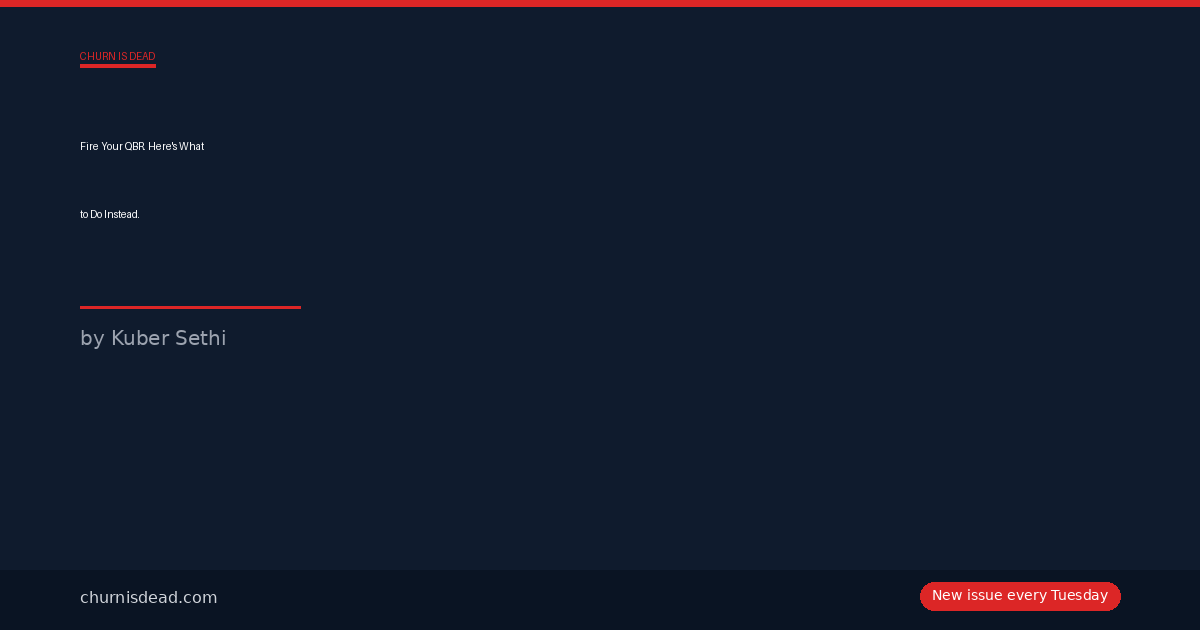
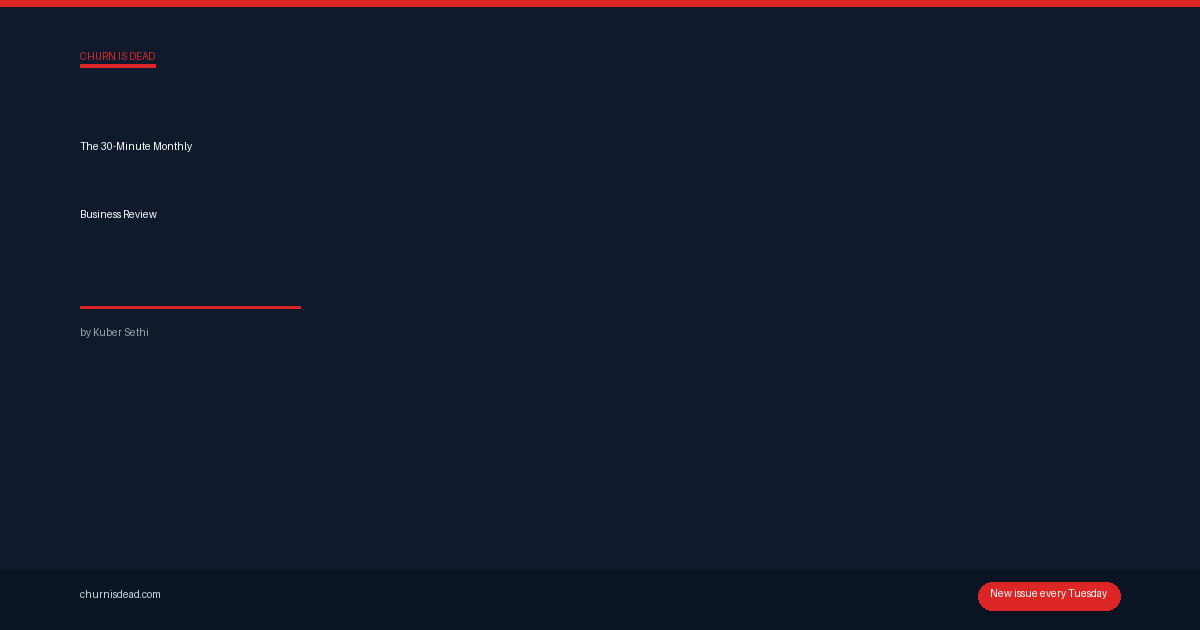
fix: clarify archive discovery
Use one catalog path for sitemap, RSS, and prerender output, label pre-ledger archive issues, and distinguish the two QBR articles without breaking their existing URLs.

diff --git a/public/newsletter/fire-your-qbr-heres-what-to-do-instead/index.html b/public/newsletter/fire-your-qbr-heres-what-to-do-instead/index.html
@@ -6,7 +6,7 @@
     <meta name="viewport" content="width=device-width, initial-scale=1.0" />
     <meta name="google-site-verification" content="BZA6oIX1nlzidJ4sFM2DlXUckVvkjR0-cJ6aKN1Zgk8" />
     <link rel="icon" type="image/png" href="/favicon.png" />
-    <title>Fire Your QBR. Here&#x27;s What to Do Instead. | Churn Is Dead</title>
+    <title>The 30-Minute Monthly Business Review | Churn Is Dead</title>
     <meta name="description" content="QBRs waste executive time by reporting on history instead of driving decisions. Here&#x27;s the Monthly Business Review that actually moves the needle." />
     <meta name="author" content="Kuber Sethi" />
     <meta name="keywords" content="customer success, CS frameworks, enterprise customer success, QBR framework, churn prevention, net revenue retention, customer success strategy, CS leadership, customer retention playbook" />
@@ -15,7 +15,7 @@
     <!-- Open Graph / Facebook -->
     <meta property="og:type" content="article" />
     <meta property="og:url" content="https://churnisdead.com/newsletter/fire-your-qbr-heres-what-to-do-instead" />
-    <meta property="og:title" content="Fire Your QBR. Here&#x27;s What to Do Instead. | Churn Is Dead" />
+    <meta property="og:title" content="The 30-Minute Monthly Business Review | Churn Is Dead" />
     <meta property="og:description" content="QBRs waste executive time by reporting on history instead of driving decisions. Here&#x27;s the Monthly Business Review that actually moves the needle." />
     <meta property="og:image" content="https://churnisdead.com/og/fire-your-qbr-heres-what-to-do-instead.png" />
     <meta property="og:image:width" content="1200" />
@@ -27,7 +27,7 @@
 
     <!-- Twitter -->
     <meta name="twitter:card" content="summary_large_image" />
-    <meta name="twitter:title" content="Fire Your QBR. Here&#x27;s What to Do Instead. | Churn Is Dead" />
+    <meta name="twitter:title" content="The 30-Minute Monthly Business Review | Churn Is Dead" />
     <meta name="twitter:description" content="QBRs waste executive time by reporting on history instead of driving decisions. Here&#x27;s the Monthly Business Review that actually moves the needle." />
     <meta name="twitter:image" content="https://churnisdead.com/og/fire-your-qbr-heres-what-to-do-instead.png" />
     
@@ -38,7 +38,7 @@
   {
     "@context": "https://schema.org",
     "@type": "Article",
-    "headline": "Fire Your QBR. Here's What to Do Instead.",
+    "headline": "The 30-Minute Monthly Business Review",
     "description": "QBRs waste executive time by reporting on history instead of driving decisions. Here's the Monthly Business Review that actually moves the needle.",
     "image": "https://churnisdead.com/og/fire-your-qbr-heres-what-to-do-instead.png",
     "datePublished": "2026-05-19T08:00:00+00:00",
@@ -67,8 +67,9 @@
   <noscript>
     <div style="max-width:680px;margin:40px auto;padding:0 16px;font-family:Georgia,serif;line-height:1.7;color:#1a1a1a">
       <p style="font-size:11px;letter-spacing:3px;color:#C8553D;font-weight:bold;text-transform:uppercase">CHURN IS DEAD</p>
-      <h1 style="font-family:Helvetica,Arial,sans-serif;font-size:32px">Fire Your QBR. Here&#x27;s What to Do Instead.</h1>
+      <h1 style="font-family:Helvetica,Arial,sans-serif;font-size:32px">The 30-Minute Monthly Business Review</h1>
       <p style="color:#999;font-size:13px">11 min read · Strategy</p>
+      <p><strong>Archive note:</strong> This issue predates the evidence ledger introduced in August 2026. Treat uncited benchmarks and examples as editorial analysis, not independently verified findings.</p>
       <p>The head of enterprise CS at a $200M SaaS company spent 40 hours last quarter preparing for QBRs. PowerPoint decks filled with trailing 90-day metrics. Charts showing improvement trends. Customer health scores trending green. Executive summary slides highlighting wins and learnings.</p>
       <p>Two weeks after the final QBR, their biggest customer churned.</p>
       <p>The reason? A competitive evaluation that started six weeks earlier. The kind of strategic shift that shows up in customer behavior long before it hits your dashboard. The type of decision-making process that gets discussed in hallway conversations, not captured in health scores.</p>

diff --git a/public/newsletter/fire-your-qbr-what-to-do-instead/index.html b/public/newsletter/fire-your-qbr-what-to-do-instead/index.html
@@ -6,7 +6,7 @@
     <meta name="viewport" content="width=device-width, initial-scale=1.0" />
     <meta name="google-site-verification" content="BZA6oIX1nlzidJ4sFM2DlXUckVvkjR0-cJ6aKN1Zgk8" />
     <link rel="icon" type="image/png" href="/favicon.png" />
-    <title>Fire Your QBR. Here&#x27;s What to Do Instead. | Churn Is Dead</title>
+    <title>Stop Scheduling Success: The Continuous CS Operating Model | Churn Is Dead</title>
     <meta name="description" content="QBRs are elaborate customer success theater. The highest-retention SaaS companies deliver success through continuous, in-product experiences instead." />
     <meta name="author" content="Kuber Sethi" />
     <meta name="keywords" content="customer success, CS frameworks, enterprise customer success, QBR framework, churn prevention, net revenue retention, customer success strategy, CS leadership, customer retention playbook" />
@@ -15,7 +15,7 @@
     <!-- Open Graph / Facebook -->
     <meta property="og:type" content="article" />
     <meta property="og:url" content="https://churnisdead.com/newsletter/fire-your-qbr-what-to-do-instead" />
-    <meta property="og:title" content="Fire Your QBR. Here&#x27;s What to Do Instead. | Churn Is Dead" />
+    <meta property="og:title" content="Stop Scheduling Success: The Continuous CS Operating Model | Churn Is Dead" />
     <meta property="og:description" content="QBRs are elaborate customer success theater. The highest-retention SaaS companies deliver success through continuous, in-product experiences instead." />
     <meta property="og:image" content="https://churnisdead.com/og/fire-your-qbr-what-to-do-instead.png" />
     <meta property="og:image:width" content="1200" />
@@ -27,7 +27,7 @@
 
     <!-- Twitter -->
     <meta name="twitter:card" content="summary_large_image" />
-    <meta name="twitter:title" content="Fire Your QBR. Here&#x27;s What to Do Instead. | Churn Is Dead" />
+    <meta name="twitter:title" content="Stop Scheduling Success: The Continuous CS Operating Model | Churn Is Dead" />
     <meta name="twitter:description" content="QBRs are elaborate customer success theater. The highest-retention SaaS companies deliver success through continuous, in-product experiences instead." />
     <meta name="twitter:image" content="https://churnisdead.com/og/fire-your-qbr-what-to-do-instead.png" />
     
@@ -38,7 +38,7 @@
   {
     "@context": "https://schema.org",
     "@type": "Article",
-    "headline": "Fire Your QBR. Here's What to Do Instead.",
+    "headline": "Stop Scheduling Success: The Continuous CS Operating Model",
     "description": "QBRs are elaborate customer success theater. The highest-retention SaaS companies deliver success through continuous, in-product experiences instead.",
     "image": "https://churnisdead.com/og/fire-your-qbr-what-to-do-instead.png",
     "datePublished": "2026-05-12T08:00:00+00:00",
@@ -67,8 +67,9 @@
   <noscript>
     <div style="max-width:680px;margin:40px auto;padding:0 16px;font-family:Georgia,serif;line-height:1.7;color:#1a1a1a">
       <p style="font-size:11px;letter-spacing:3px;color:#C8553D;font-weight:bold;text-transform:uppercase">CHURN IS DEAD</p>
-      <h1 style="font-family:Helvetica,Arial,sans-serif;font-size:32px">Fire Your QBR. Here&#x27;s What to Do Instead.</h1>
+      <h1 style="font-family:Helvetica,Arial,sans-serif;font-size:32px">Stop Scheduling Success: The Continuous CS Operating Model</h1>
       <p style="color:#999;font-size:13px">8 min read · Strategy</p>
+      <p><strong>Archive note:</strong> This issue predates the evidence ledger introduced in August 2026. Treat uncited benchmarks and examples as editorial analysis, not independently verified findings.</p>
       <p># Fire Your QBR. Here&#x27;s What to Do Instead.</p>
       <p>Quarterly Business Reviews are dead. They died the moment customers stopped showing up.</p>
       <p>The head of enterprise success at a $200M ARR company sent 847 QBR invites last quarter. 312 customers declined immediately. 298 more rescheduled at least once. Of the 237 that actually happened, customers came prepared to exactly 31 of them.</p>

diff --git a/public/newsletter/ai-customer-success-firing-people/index.html b/public/newsletter/ai-customer-success-firing-people/index.html
@@ -69,6 +69,7 @@
       <p style="font-size:11px;letter-spacing:3px;color:#C8553D;font-weight:bold;text-transform:uppercase">CHURN IS DEAD</p>
       <h1 style="font-family:Helvetica,Arial,sans-serif;font-size:32px">Your AI Customer Success Strategy Is Actually Firing People</h1>
       <p style="color:#999;font-size:13px">8 min read · AI & Automation</p>
+      <p><strong>Archive note:</strong> This issue predates the evidence ledger introduced in August 2026. Treat uncited benchmarks and examples as editorial analysis, not independently verified findings.</p>
       <p>Sarah&#x27;s CSM just got reassigned 47 additional accounts because the new AI agent can handle &quot;routine check-ins.&quot; The VP of CS presented it beautifully in the all-hands: &quot;We&#x27;re freeing up Jessica to focus on strategic relationships while our AI handles the transactional stuff.&quot;</p>
       <p>Two weeks later, three of those 47 accounts escalated to cancel. Not because of product issues. Because nobody answered their implementation questions. The AI agent could send perfectly crafted check-in emails, but when customers replied asking about API configurations or custom field mapping, those messages got routed to... nobody.</p>
       <p>Jessica tried to jump in when she finally saw the escalations. But she was already underwater managing her existing strategic accounts plus the other 44 new &quot;AI-assisted&quot; relationships. The customers had already started procurement conversations with competitors.</p>

diff --git a/public/newsletter/cs-platform-org-chart-you-cant-edit/index.html b/public/newsletter/cs-platform-org-chart-you-cant-edit/index.html
@@ -69,6 +69,7 @@
       <p style="font-size:11px;letter-spacing:3px;color:#C8553D;font-weight:bold;text-transform:uppercase">CHURN IS DEAD</p>
       <h1 style="font-family:Helvetica,Arial,sans-serif;font-size:32px">The Two-Vendor Trick: How CS Platforms Quietly Became Org Charts You Can&#x27;t Edit</h1>
       <p style="color:#999;font-size:13px">11 min read · Operations</p>
+      <p><strong>Archive note:</strong> This issue predates the evidence ledger introduced in August 2026. Treat uncited benchmarks and examples as editorial analysis, not independently verified findings.</p>
       <p>In 2024, Totango and Catalyst merged into one company. Two years on, they still ship as two distinct products under one logo, with two data models, two onboarding paths, two histories of how a &quot;health score&quot; gets calculated.</p>
       <p>If your CS team runs on one of them, here&#x27;s a question worth sitting with before your next renewal: do you actually know which of the two your daily workflow lives in? And if your answer is &quot;does it matter&quot; — that&#x27;s the whole problem, named in one shrug.</p>
       <p>This isn&#x27;t a Totango story. Gainsight has acquired and bolted on enough products over the years that its data model carries the geology of every deal it ever closed. ChurnZero, Planhat, Vitally each grew from a different first principle about what a customer success motion even is. None of them are neutral. None of them ship empty.</p>

diff --git a/public/newsletter/cs-teams-courage-problem/index.html b/public/newsletter/cs-teams-courage-problem/index.html
@@ -69,6 +69,7 @@
       <p style="font-size:11px;letter-spacing:3px;color:#C8553D;font-weight:bold;text-transform:uppercase">CHURN IS DEAD</p>
       <h1 style="font-family:Helvetica,Arial,sans-serif;font-size:32px">CS Teams Don&#x27;t Have a Churn Problem. They Have a Courage Problem.</h1>
       <p style="color:#999;font-size:13px">6 min read · Strategy</p>
+      <p><strong>Archive note:</strong> This issue predates the evidence ledger introduced in August 2026. Treat uncited benchmarks and examples as editorial analysis, not independently verified findings.</p>
       <p>Customer Success has a dirty secret: We&#x27;ve become really good at predicting churn and terrible at preventing it.</p>
       <p>The industry spent the last decade building increasingly sophisticated health scores, risk alerts, and predictive models. We can tell you with 87% accuracy which customers will churn in the next 90 days. We just can&#x27;t do anything meaningful about it.</p>
       <p>Why? Because somewhere between &quot;customer-centric&quot; and &quot;proactive engagement,&quot; CS teams lost the ability to have difficult conversations. We optimized for customer comfort instead of customer outcomes. We became professional excuse-makers who measure success by how rarely customers complain, not by how often they achieve their goals.</p>

diff --git a/public/newsletter/renewal-not-yours-change-order-is/index.html b/public/newsletter/renewal-not-yours-change-order-is/index.html
@@ -69,6 +69,7 @@
       <p style="font-size:11px;letter-spacing:3px;color:#C8553D;font-weight:bold;text-transform:uppercase">CHURN IS DEAD</p>
       <h1 style="font-family:Helvetica,Arial,sans-serif;font-size:32px">The Renewal Is Not Yours to Own. The Change Order Is.</h1>
       <p style="color:#999;font-size:13px">11 min read · Strategy</p>
+      <p><strong>Archive note:</strong> This issue predates the evidence ledger introduced in August 2026. Treat uncited benchmarks and examples as editorial analysis, not independently verified findings.</p>
       <p>Thirty-one.</p>
       <p>That&#x27;s how many out-of-contract requests one enterprise CSM I know absorbed across eleven accounts in a single quarter. She counted them for me on a call, off a note she&#x27;d started keeping in Apple Notes because her manager kept asking why she looked exhausted going into renewals.</p>
       <p>The custom Salesforce dashboard a VP of Ops wanted before a board meeting. The ad-hoc training session for a team that never showed up to the paid one. The integration triage when a customer&#x27;s own engineer broke the webhook. The exec-briefing deck she built from a blank slide at 9pm because the sponsor had a QBR with *his* board the next morning and asked, nicely, if she could &quot;just pull something together.&quot;</p>

diff --git a/public/newsletter/cs-platform-expensive-spreadsheet/index.html b/public/newsletter/cs-platform-expensive-spreadsheet/index.html
@@ -69,6 +69,7 @@
       <p style="font-size:11px;letter-spacing:3px;color:#C8553D;font-weight:bold;text-transform:uppercase">CHURN IS DEAD</p>
       <h1 style="font-family:Helvetica,Arial,sans-serif;font-size:32px">Your CS Platform Is A $200K Spreadsheet</h1>
       <p style="color:#999;font-size:13px">8 min read · Operations</p>
+      <p><strong>Archive note:</strong> This issue predates the evidence ledger introduced in August 2026. Treat uncited benchmarks and examples as editorial analysis, not independently verified findings.</p>
       <p>Your CS platform dashboard shows 847 customers across 12 health score dimensions, but when a Fortune 500 account emails asking about their renewal timeline, you still have to dig through Salesforce, check Slack messages, and email three different people to get an answer.</p>
       <p>The $18,000/month platform that was supposed to make you &quot;proactive&quot; just made you a very expensive project manager.</p>
       <p>Yesterday I watched a CS leader present their Q4 platform ROI to the CFO. Beautiful slides about &quot;360-degree customer visibility&quot; and &quot;automated engagement workflows.&quot; The CFO asked one question: &quot;If this customer called right now asking about their contract status, how long would it take Sarah to answer?&quot;</p>

diff --git a/public/newsletter/csm-promoted-to-babysitter-agent-supervisor/index.html b/public/newsletter/csm-promoted-to-babysitter-agent-supervisor/index.html
@@ -69,6 +69,7 @@
       <p style="font-size:11px;letter-spacing:3px;color:#C8553D;font-weight:bold;text-transform:uppercase">CHURN IS DEAD</p>
       <h1 style="font-family:Helvetica,Arial,sans-serif;font-size:32px">The Day Your CSM Got Promoted to Babysitter</h1>
       <p style="color:#999;font-size:13px">11 min read · Team Design</p>
+      <p><strong>Archive note:</strong> This issue predates the evidence ledger introduced in August 2026. Treat uncited benchmarks and examples as editorial analysis, not independently verified findings.</p>
       <p>For a while now, Jason Lemkin has been arguing the traditional CSM role is dead. On June 3rd his SaaStr write-up put hard numbers behind it.</p>
       <p>The evidence is a thing called QB. An AI VP of Customer Success managing 150+ accounts end-to-end, on a stack of three humans and twenty-one agents. And the detail that stuck with everyone, from one of the earlier episodes: QB autonomously emailed 83 sponsors at 12:20am with fully customised, account-specific check-ins. No human in the loop. No human needed.</p>
       <p>He&#x27;s right about the work. He&#x27;s wrong about the conclusion. And the gap between those two things is the most important career question in customer success right now.</p>

diff --git a/public/newsletter/renewal-cliff-data-intelligence-blind-spot/index.html b/public/newsletter/renewal-cliff-data-intelligence-blind-spot/index.html
@@ -69,6 +69,7 @@
       <p style="font-size:11px;letter-spacing:3px;color:#C8553D;font-weight:bold;text-transform:uppercase">CHURN IS DEAD</p>
       <h1 style="font-family:Helvetica,Arial,sans-serif;font-size:32px">The Renewal Cliff Nobody Charted: Why CS Doesn&#x27;t Own Half the Churn It&#x27;s Blamed For</h1>
       <p style="color:#999;font-size:13px">11 min read · Data & Intelligence</p>
+      <p><strong>Archive note:</strong> This issue predates the evidence ledger introduced in August 2026. Treat uncited benchmarks and examples as editorial analysis, not independently verified findings.</p>
       <p>Ninety days.</p>
       <p>That&#x27;s the notice we got on a seven-figure enterprise account that was green on every dimension the platform tracked. Usage trending up quarter over quarter. Ticket volume down. Last NPS response a 9, written by a power user who&#x27;d built three internal workflows on top of the product.</p>
       <p>The health score had been a calm, confident green for fourteen straight months. Not the lazy green where someone forgot to update the model. The kind backed by real signal: people logging in, features adopted, support load light.</p>

diff --git a/public/newsletter/expansion-recession-not-retention-problem/index.html b/public/newsletter/expansion-recession-not-retention-problem/index.html
@@ -69,6 +69,7 @@
       <p style="font-size:11px;letter-spacing:3px;color:#C8553D;font-weight:bold;text-transform:uppercase">CHURN IS DEAD</p>
       <h1 style="font-family:Helvetica,Arial,sans-serif;font-size:32px">The Expansion Recession Is Here. Stop Calling It a Retention Problem.</h1>
       <p style="color:#999;font-size:13px">11 min read · Revenue</p>
+      <p><strong>Archive note:</strong> This issue predates the evidence ledger introduced in August 2026. Treat uncited benchmarks and examples as editorial analysis, not independently verified findings.</p>
       <p>Median private SaaS NRR drifted from around 105% in 2021 to roughly 101% in 2024. The 15th annual SaaS Industry Survey, the one SaaS Capital and ChurnZero put out in early June, finally said the quiet part with data attached: most of that four-point slide happened while gross retention barely moved.</p>
       <p>Read that again, because it changes who&#x27;s responsible.</p>
       <p>Gross retention holding flat means customers aren&#x27;t leaving. Net retention falling means they&#x27;ve stopped buying more. Those are two completely different failures, and the second one is not yours.</p>

diff --git a/public/newsletter/your-ai-strategy-is-just-expensive-layoffs/index.html b/public/newsletter/your-ai-strategy-is-just-expensive-layoffs/index.html
@@ -69,6 +69,7 @@
       <p style="font-size:11px;letter-spacing:3px;color:#C8553D;font-weight:bold;text-transform:uppercase">CHURN IS DEAD</p>
       <h1 style="font-family:Helvetica,Arial,sans-serif;font-size:32px">Your AI Strategy Is Just Expensive Layoffs</h1>
       <p style="color:#999;font-size:13px">9 min read · AI & Automation</p>
+      <p><strong>Archive note:</strong> This issue predates the evidence ledger introduced in August 2026. Treat uncited benchmarks and examples as editorial analysis, not independently verified findings.</p>
       <p>Your CEO just announced a $50M AI investment to &quot;transform customer success&quot; while your HR leader quietly mentions &quot;rightsizing the organization.&quot; The math isn&#x27;t subtle. One AI platform license costs less than one CSM&#x27;s annual salary.</p>
       <p>I watched this exact scene play out in a conference room last month. The slides were beautiful. &quot;Augmenting our CSMs with AI-powered insights to focus on strategic relationship building.&quot; The exec team nodded. Everyone felt innovative.</p>
       <p>Three weeks later, they cut 40% of the CS team.</p>

diff --git a/public/newsletter/csms-task-collectors-not-problem-solvers/index.html b/public/newsletter/csms-task-collectors-not-problem-solvers/index.html
@@ -69,6 +69,7 @@
       <p style="font-size:11px;letter-spacing:3px;color:#C8553D;font-weight:bold;text-transform:uppercase">CHURN IS DEAD</p>
       <h1 style="font-family:Helvetica,Arial,sans-serif;font-size:32px">Your CSMs Are Task Collectors, Not Problem Solvers</h1>
       <p style="color:#999;font-size:13px">9 min read · Strategy</p>
+      <p><strong>Archive note:</strong> This issue predates the evidence ledger introduced in August 2026. Treat uncited benchmarks and examples as editorial analysis, not independently verified findings.</p>
       <h2>Your CSMs Are Task Collectors, Not Problem Solvers</h2>
       <p>Sarah had been a CSM at a major SaaS company for three years. Her Slack was a graveyard of customer requests: &quot;Can you check why our API calls are timing out?&quot; &quot;We need the integration team to look at our webhook setup.&quot; &quot;When will the new feature be ready?&quot;</p>
       <p>She&#x27;d dutifully create tickets, tag the right teams, and follow up. Her customers loved her responsiveness. Leadership praised her organization. She felt busy, important, valuable.</p>
